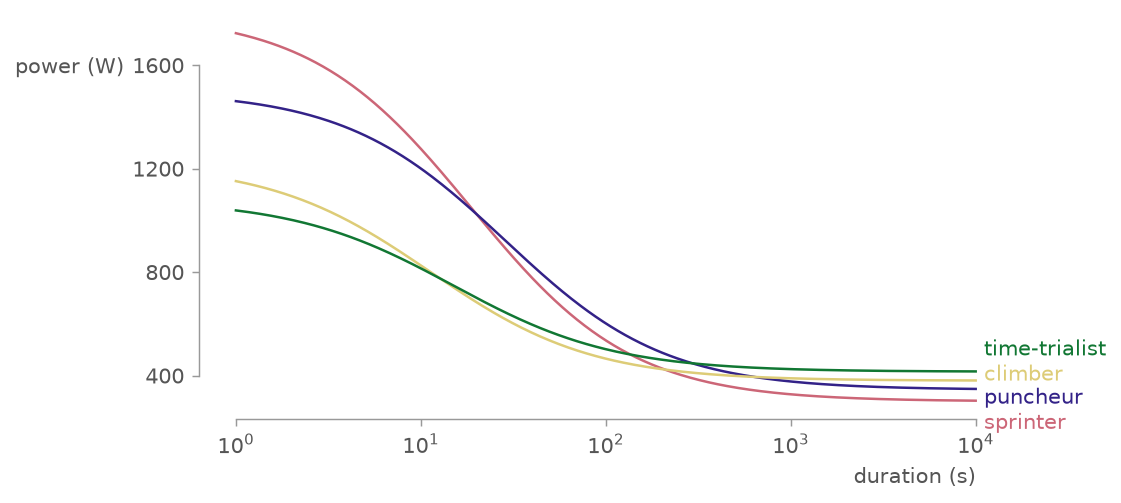
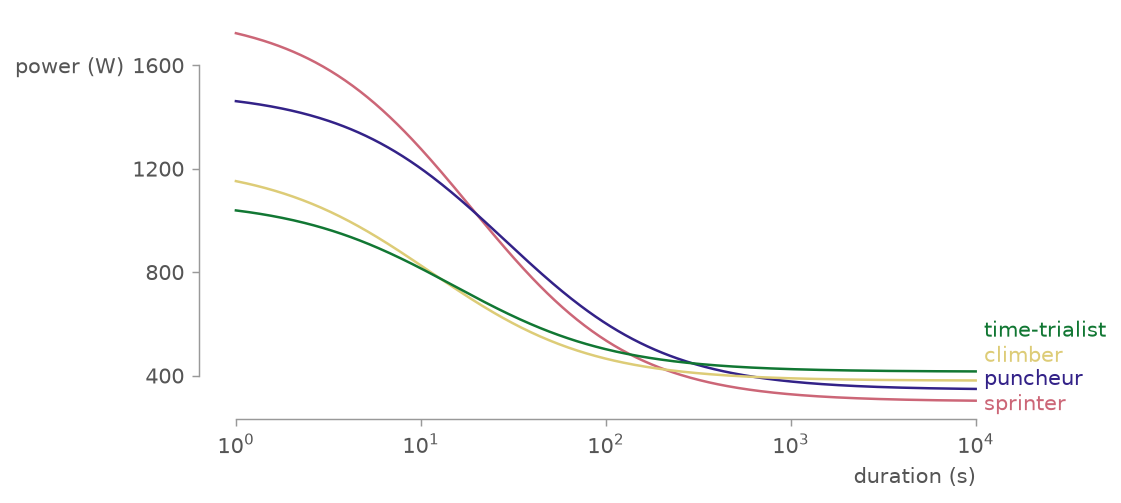
fix(lines): hold the label stack inside the axes and warn if it spills
Line labels are pushed apart along the axis until none overlap, with
no notion of where the axes ends, so a cluster near an edge ran off
it: the bottom label of a power-profile stack landed on the x tick
labels, and a slopegraph's dense column ran past the year label with
nothing said.

The axes' top and bottom now join the stack as two pinned boxes of no
height. A stack that fits slides inside them; one that cannot fit
spills past both edges by the same amount and warns once, naming the
labels outside, with the two cures: a taller axes, or labels= naming
fewer lines. The grand tours and power profiles figures move by a few
pixels where a label touched an edge, and are re-rendered.

Claude-Session: https://claude.ai/code/session_01M3QG7tsgb68RthHG2bcZnG

Changed region(s): [[0.8742, 0.6262, 0.9991, 0.8648]]

diff --git a/src/vanzelfsprekend/lines.py b/src/vanzelfsprekend/lines.py
@@ -211,6 +211,45 @@ def _ink_rise(text: Annotation) -> float:
     return float(bounds.y0 + bounds.y1) / 2
 
 
+def _stack_inside(
+    ax: Axes, desired: np.ndarray, heights: np.ndarray, gap: float
+) -> np.ndarray:
+    """Stack the labels apart, held between the axes' top and bottom.
+
+    The axes' edges join the stack as two pinned boxes of no height, so a
+    stack that fits slides inside them, and one that cannot fit spills
+    past both edges by the same amount rather than running off one end.
+    """
+    box = ax.get_window_extent()
+    walls = np.array([box.y0, box.y1])
+    placed = placement.stack(
+        np.concatenate((desired, walls)),
+        np.concatenate((heights, [0.0, 0.0])),
+        gap,
+        weights=np.concatenate((np.ones(desired.size), [placement.PIN_WEIGHT] * 2)),
+        key=np.concatenate((np.clip(desired, box.y0, box.y1), [-np.inf, np.inf])),
+    )
+    return placed[:-2]
+
+
+def _warn_if_outside(
+    ax: Axes, side: dict, placed: np.ndarray, heights: np.ndarray
+) -> None:
+    box = ax.get_window_extent()
+    outside = [
+        text.get_text()
+        for text, y, h in zip(side["texts"], placed, heights, strict=True)
+        if y - h / 2 < box.y0 - 0.5 or y + h / 2 > box.y1 + 0.5
+    ]
+    if outside and not side.get("warned"):
+        side["warned"] = True
+        warnings.warn(
+            f"vanzelfsprekend: line labels {outside} do not fit inside the "
+            "axes; make it taller, or pass labels= to name fewer lines",
+            stacklevel=2,
+        )
+
+
 def _apply_line_labels(ax: Axes, at: str) -> bool:
     state = get_state(ax)
     side = (state or {}).get("line_labels", {}).get(at)
@@ -228,7 +267,8 @@ def _apply_line_labels(ax: Axes, at: str) -> bool:
             changed = True
     desired = ax.transData.transform([t.xy for t in side["texts"]])[:, 1]
     px_per_pt = ax.figure.dpi / 72.0
-    placed = placement.stack(desired, heights, side["gap"] * px_per_pt)
+    placed = _stack_inside(ax, desired, heights, side["gap"] * px_per_pt)
+    _warn_if_outside(ax, side, placed, heights)
     sign = 1.0 if at == "end" else -1.0
     for text, dy in zip(side["texts"], (placed - desired) / px_per_pt, strict=True):
         position = (sign * side["pad"], dy - _ink_rise(text))

diff --git a/tests/test_lines.py b/tests/test_lines.py
@@ -1,5 +1,6 @@
 import datetime
 import itertools
+import warnings
 
 import matplotlib.dates
 import matplotlib.pyplot as plt
@@ -384,4 +385,40 @@ def test_labels_all_none_is_silent(recwarn):
     texts = vzs.line_labels(ax, labels=[None, None])
     assert texts == []
     assert not any("labels=" in str(w.message) for w in recwarn)
+    plt.close(fig)
+
+
+def _label_boxes_inside(ax, texts):
+    box = ax.get_window_extent()
+    return all(
+        box.y0 - 0.5 <= t.get_window_extent().y0
+        and t.get_window_extent().y1 <= box.y1 + 0.5
+        for t in texts
+    )
+
+
+def test_end_labels_that_fit_stay_inside_the_axes():
+    # Six lines converging at the top edge: stacked apart they still fit
+    # in the axes, so the stack slides down instead of spilling over.
+    fig, ax = plt.subplots(figsize=(4, 3))
+    for i in range(6):
+        ax.plot([0, 1], [0, 0.99 + i * 0.002], label=f"line {i}")
+    ax.set_ylim(0, 1)
+    with warnings.catch_warnings():
+        warnings.simplefilter("error")
+        texts = vzs.line_labels(ax)
+        fig.canvas.draw()
+    assert _label_boxes_inside(ax, texts)
+    plt.close(fig)
+
+
+def test_end_labels_that_cannot_fit_warn_once():
+    fig, ax = plt.subplots(figsize=(4, 2))
+    for i in range(12):
+        ax.plot([0, 1], [i * 0.05, i * 0.05], label=f"line {i}")
+    with pytest.warns(UserWarning, match="inside the axes"):
+        vzs.line_labels(ax)
+    with warnings.catch_warnings():
+        warnings.simplefilter("error")
+        fig.canvas.draw()  # warned once, not on every draw
     plt.close(fig)
